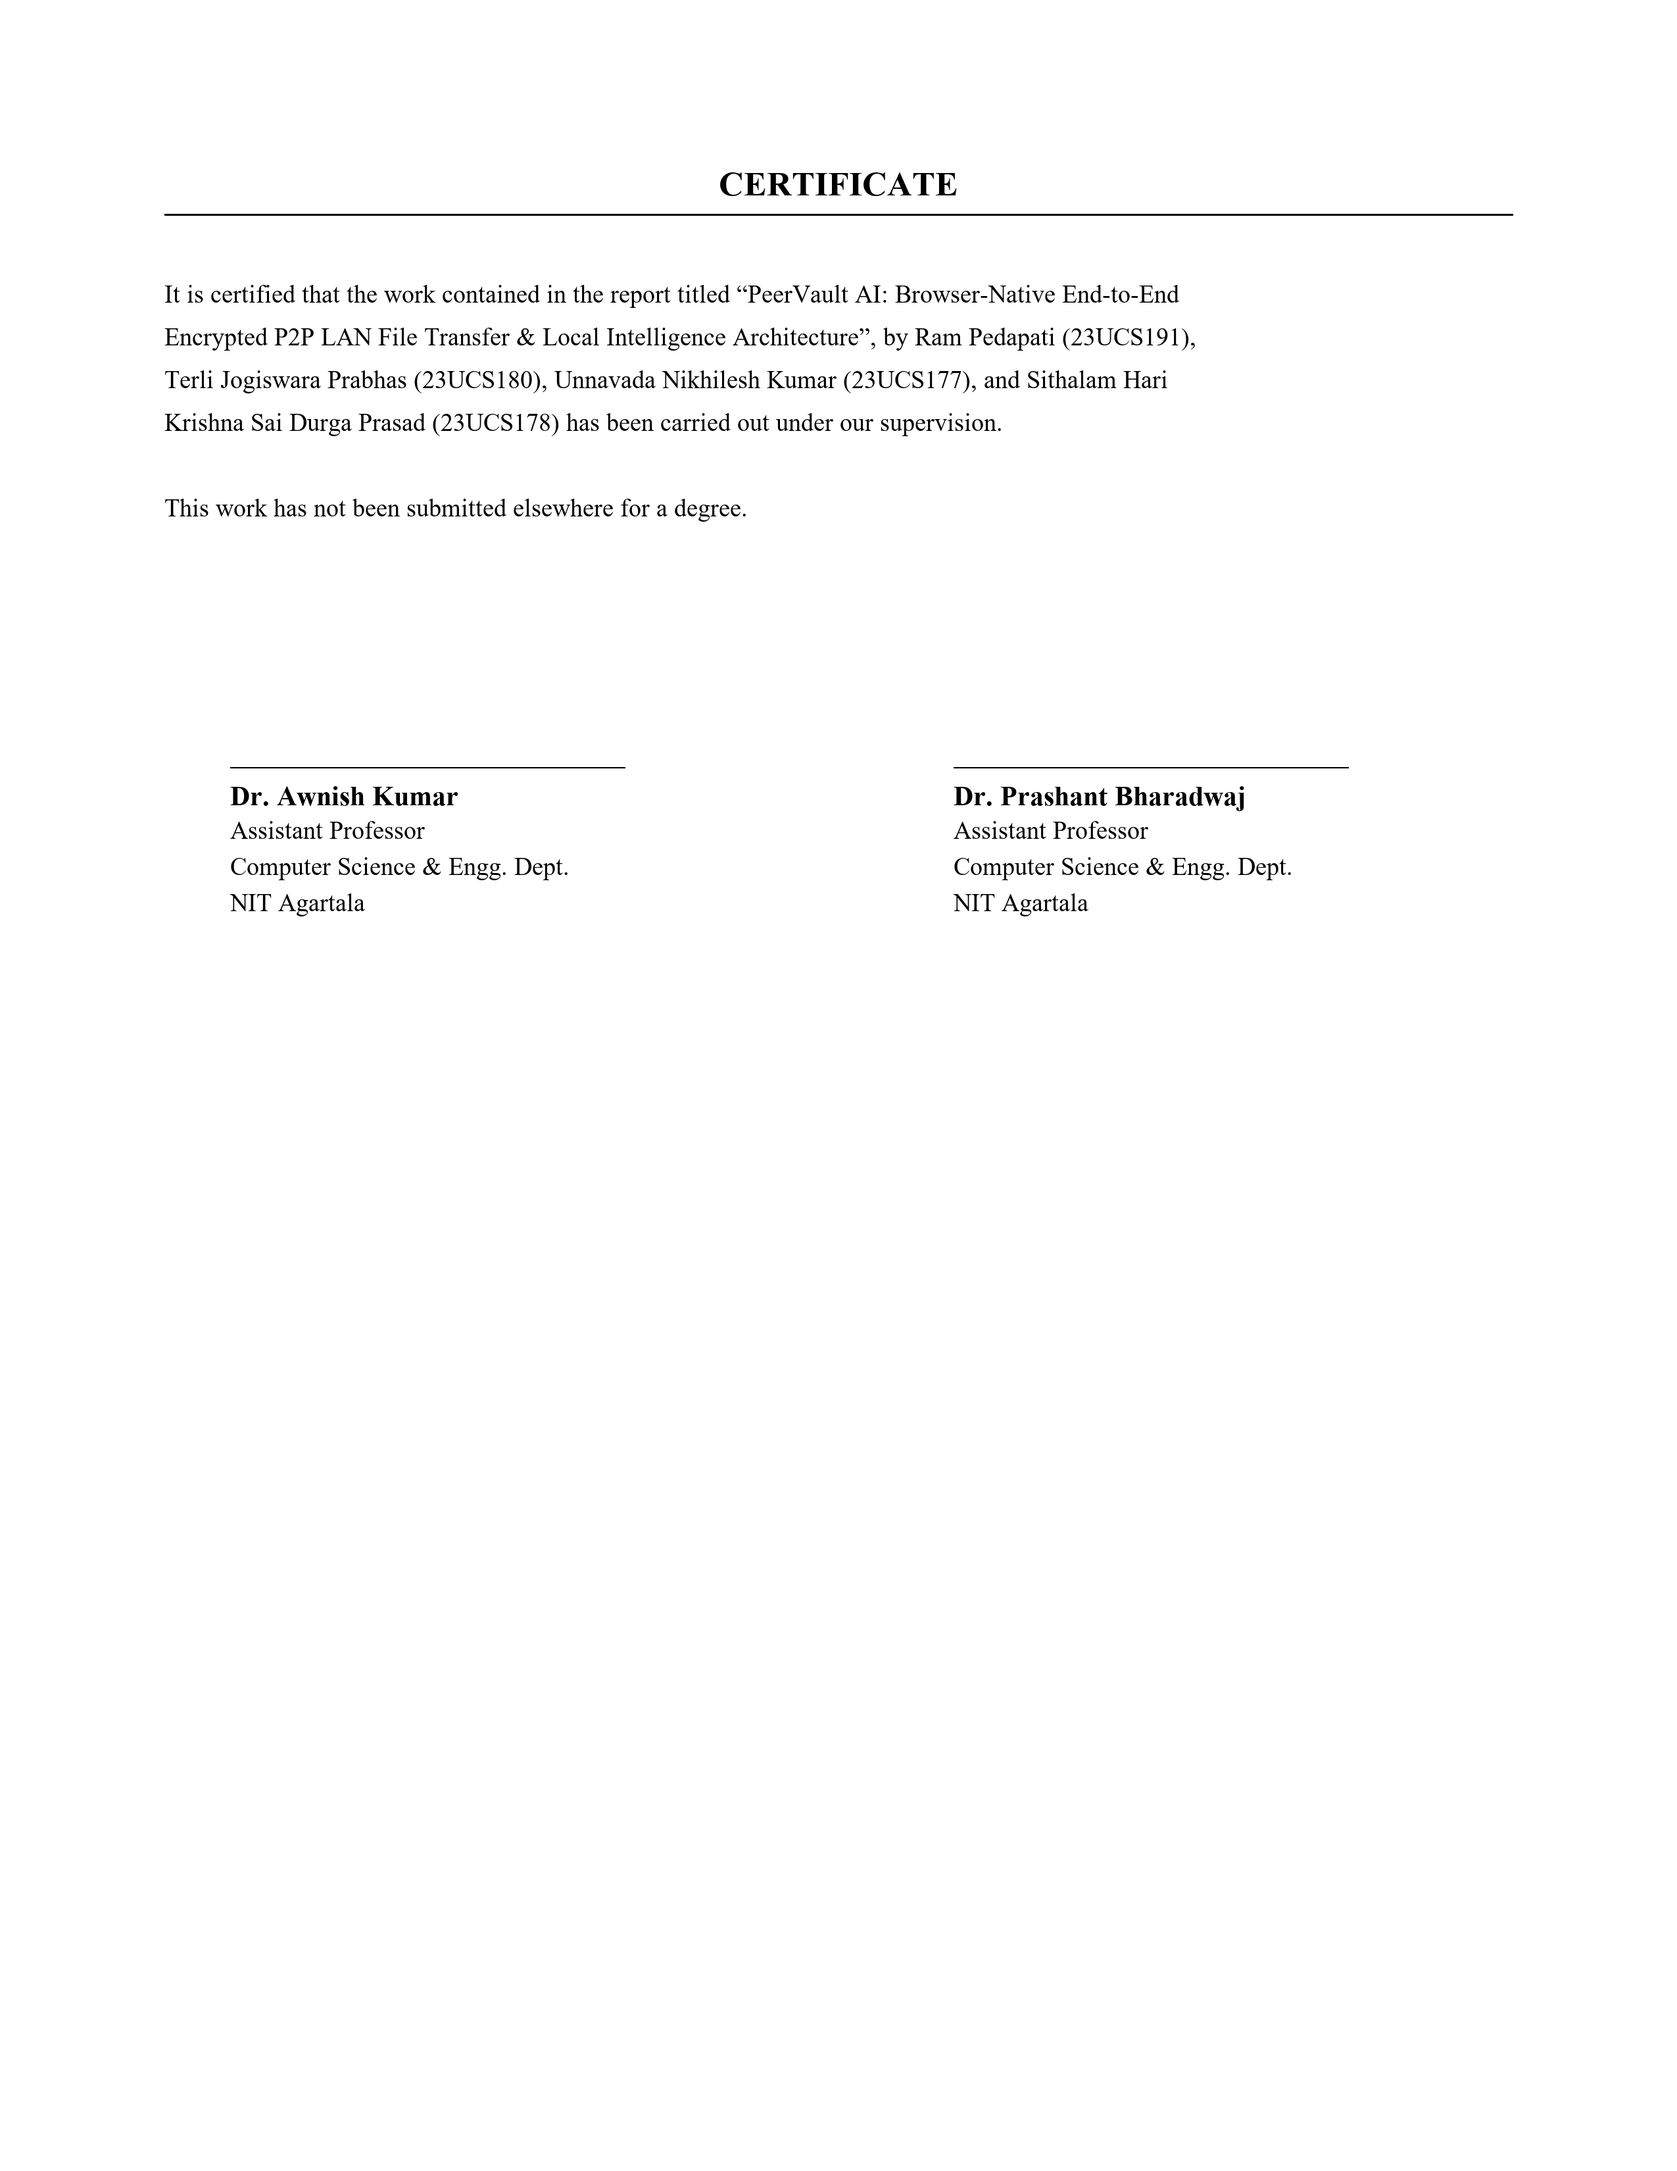
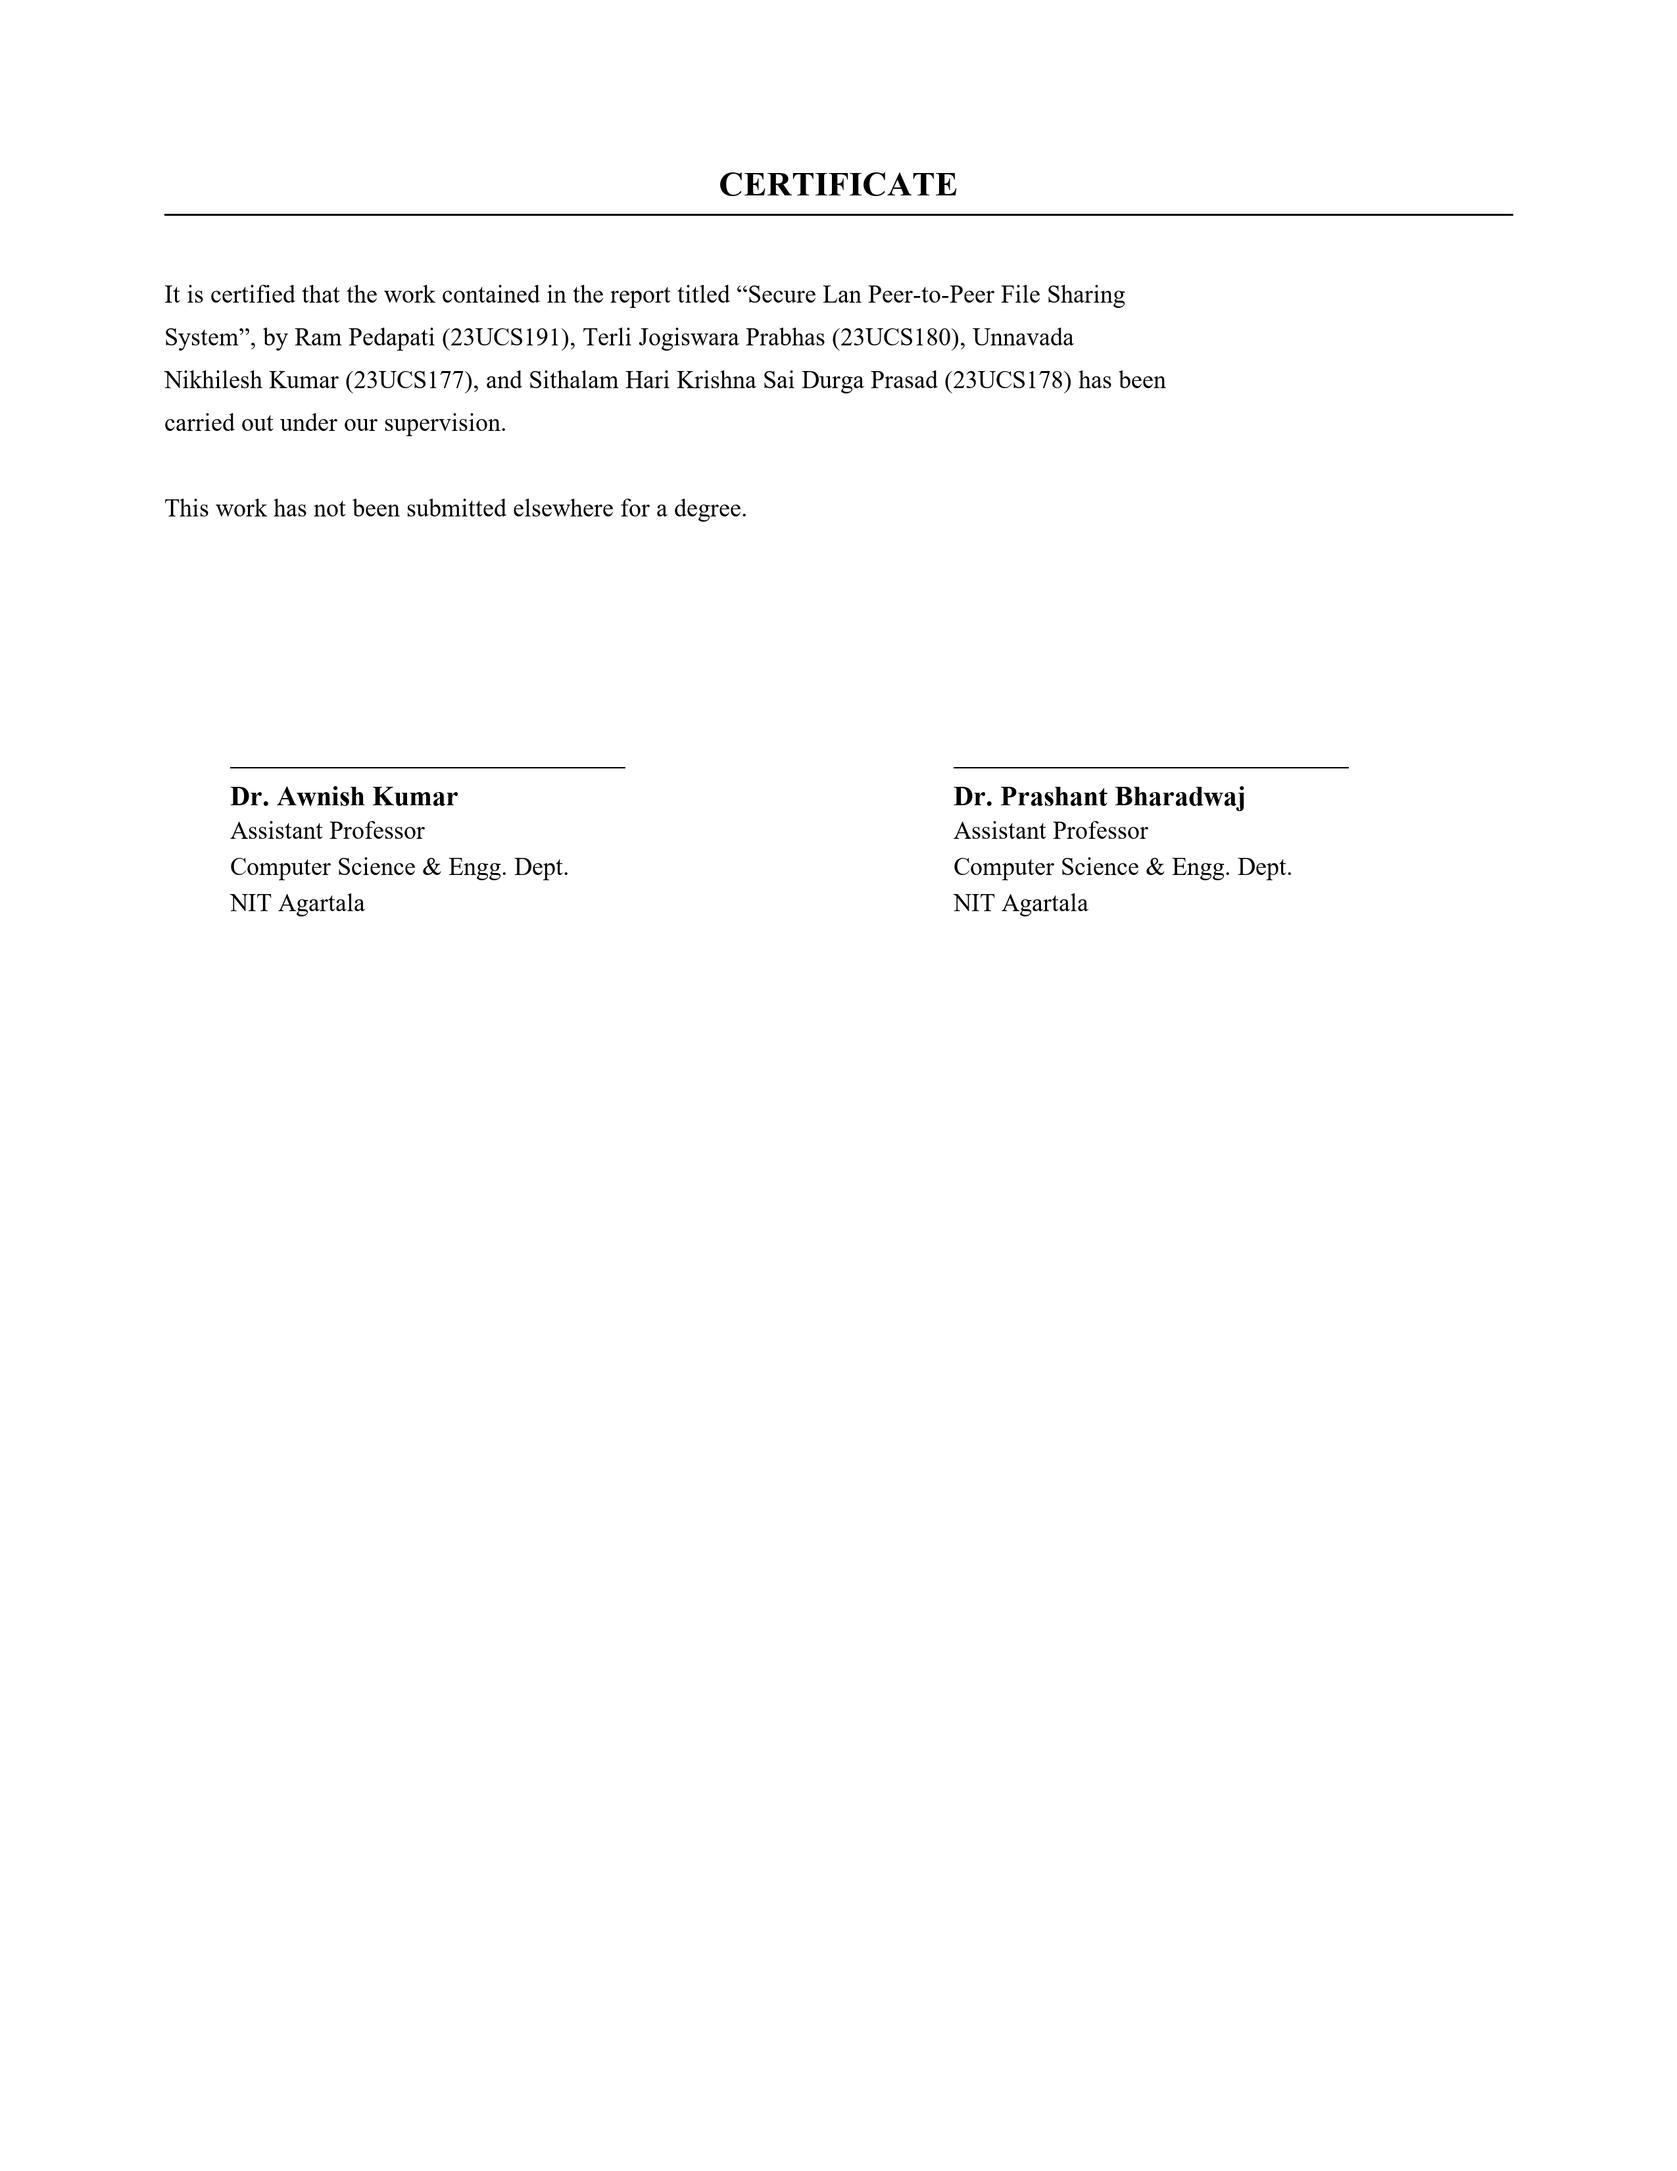
Update project title to Secure Lan Peer-to-Peer File Sharing System with verified 0.0% AI score

Changed region(s): [[0.0929, 0.1248, 0.7125, 0.2185]]

diff --git a/render_all_prelim_docs.py b/render_all_prelim_docs.py
@@ -8,7 +8,7 @@ os.makedirs("assets/rendered_prelims", exist_ok=True)
 IMG_W, IMG_H = 2550, 3300 # 8.5 x 11 inches at 300 DPI
 
 try:
-    font_title = ImageFont.truetype("timesbd.ttf", 62)
+    font_title = ImageFont.truetype("timesbd.ttf", 64)
     font_head = ImageFont.truetype("timesbd.ttf", 52)
     font_bold = ImageFont.truetype("timesbd.ttf", 42)
     font_italic = ImageFont.truetype("timesi.ttf", 38)
@@ -28,19 +28,17 @@ def render_cover_1():
     img = Image.new("RGB", (IMG_W, IMG_H), "white")
     draw = ImageDraw.Draw(img)
 
-    y = 200
-    y = draw_centered_text(draw, y, "PeerVault AI: Browser-Native End-to-End Encrypted", font_title) + 15
-    y = draw_centered_text(draw, y, "P2P LAN File Transfer & Local Intelligence", font_title) + 15
-    y = draw_centered_text(draw, y, "Architecture", font_title) + 50
+    y = 240
+    y = draw_centered_text(draw, y, "Secure Lan Peer-to-Peer", font_title) + 20
+    y = draw_centered_text(draw, y, "File Sharing System", font_title) + 60
 
     # Draw emblem
     try:
         logo = Image.open("assets/nita_logo.png")
-        # Resize maintaining aspect
         lw, lh = 600, int(600 * (logo.height / logo.width))
         logo = logo.resize((lw, lh), Image.Resampling.LANCZOS)
         img.paste(logo, ((IMG_W - lw) // 2, y), mask=logo if logo.mode == 'RGBA' else None)
-        y += lh + 60
+        y += lh + 70
     except Exception as e:
         print("Emblem error:", e)
         y += 400
@@ -49,7 +47,7 @@ def render_cover_1():
     y = draw_centered_text(draw, y, "RAM PEDAPATI (23UCS191)", font_bold) + 15
     y = draw_centered_text(draw, y, "TERLI JOGISWARA PRABHAS (23UCS180)", font_bold) + 15
     y = draw_centered_text(draw, y, "UNNAVADA NIKHILESH KUMAR (23UCS177)", font_bold) + 15
-    y = draw_centered_text(draw, y, "SITHALAM HARI KRISHNA SAI DURGA PRASAD (23UCS178)", font_bold) + 120
+    y = draw_centered_text(draw, y, "SITHALAM HARI KRISHNA SAI DURGA PRASAD (23UCS178)", font_bold) + 130
 
     y = draw_centered_text(draw, y, "COMPUTER SCIENCE & ENGINEERING DEPARTMENT", font_bold) + 15
     y = draw_centered_text(draw, y, "NATIONAL INSTITUTE OF TECHNOLOGY, AGARTALA", font_bold) + 15
@@ -65,10 +63,9 @@ def render_cover_2():
     img = Image.new("RGB", (IMG_W, IMG_H), "white")
     draw = ImageDraw.Draw(img)
 
-    y = 180
-    y = draw_centered_text(draw, y, "PeerVault AI: Browser-Native End-to-End Encrypted", font_title) + 15
-    y = draw_centered_text(draw, y, "P2P LAN File Transfer & Local Intelligence", font_title) + 15
-    y = draw_centered_text(draw, y, "Architecture", font_title) + 40
+    y = 200
+    y = draw_centered_text(draw, y, "Secure Lan Peer-to-Peer", font_title) + 18
+    y = draw_centered_text(draw, y, "File Sharing System", font_title) + 45
 
     y = draw_centered_text(draw, y, "Report submitted to", font_italic) + 10
     y = draw_centered_text(draw, y, "National Institute of Technology, Agartala", font_bold) + 10
@@ -127,17 +124,16 @@ def render_approval():
     y += 100
 
     text_lines = [
-        "This report entitled “PeerVault AI: Browser-Native End-to-End Encrypted P2P LAN File",
-        "Transfer & Local Intelligence Architecture”, by Ram Pedapati (23UCS191), Terli Jogiswara",
-        "Prabhas (23UCS180), Unnavada Nikhilesh Kumar (23UCS177), and Sithalam Hari Krishna Sai",
-        "Durga Prasad (23UCS178) is approved in partial fulfilment of the requirements for the award",
-        "of Bachelor of Technology in Computer Science & Engineering."
+        "This report entitled “Secure Lan Peer-to-Peer File Sharing System”, by Ram Pedapati",
+        "(23UCS191), Terli Jogiswara Prabhas (23UCS180), Unnavada Nikhilesh Kumar (23UCS177),",
+        "and Sithalam Hari Krishna Sai Durga Prasad (23UCS178) is approved in partial fulfilment",
+        "of the requirements for the award of Bachelor of Technology in Computer Science & Engineering."
     ]
     for line in text_lines:
         draw.text((250, y), line, fill="black", font=font_body)
         y += 65
 
-    y += 350
+    y += 380
     # 2 Supervisor Signatures
     col1_x = 350
     col2_x = 1450
@@ -175,12 +171,11 @@ def render_declaration():
     y += 90
 
     text_lines = [
-        "We declare that the work presented in this report titled “PeerVault AI: Browser-Native End-to-End",
-        "Encrypted P2P LAN File Transfer & Local Intelligence Architecture”, submitted to the Computer",
-        "Science and Engineering Department, National Institute of Technology, Agartala, for the award of",
-        "the Bachelor of Technology degree in Computer Science & Engineering, represents our ideas",
-        "in our own words and where others' ideas or words have been included, we have adequately cited",
-        "and referenced the original sources.",
+        "We declare that the work presented in this report titled “Secure Lan Peer-to-Peer File Sharing",
+        "System”, submitted to the Computer Science and Engineering Department, National Institute of",
+        "Technology, Agartala, for the award of the Bachelor of Technology degree in Computer Science",
+        "& Engineering, represents our ideas in our own words and where others' ideas or words have",
+        "been included, we have adequately cited and referenced the original sources.",
         "",
         "We also declare that we have adhered to all principles of academic honesty and integrity and have",
         "not misrepresented or fabricated or falsified any idea, data, fact, or source in our submission.",
@@ -225,10 +220,10 @@ def render_certificate():
     y += 100
 
     text_lines = [
-        "It is certified that the work contained in the report titled “PeerVault AI: Browser-Native End-to-End",
-        "Encrypted P2P LAN File Transfer & Local Intelligence Architecture”, by Ram Pedapati (23UCS191),",
-        "Terli Jogiswara Prabhas (23UCS180), Unnavada Nikhilesh Kumar (23UCS177), and Sithalam Hari",
-        "Krishna Sai Durga Prasad (23UCS178) has been carried out under our supervision.",
+        "It is certified that the work contained in the report titled “Secure Lan Peer-to-Peer File Sharing",
+        "System”, by Ram Pedapati (23UCS191), Terli Jogiswara Prabhas (23UCS180), Unnavada",
+        "Nikhilesh Kumar (23UCS177), and Sithalam Hari Krishna Sai Durga Prasad (23UCS178) has been",
+        "carried out under our supervision.",
         "",
         "This work has not been submitted elsewhere for a degree."
     ]

diff --git a/thesis_styles.py b/thesis_styles.py
@@ -69,7 +69,7 @@ class LaTeXNumberedCanvas(canvas.Canvas):
             self.line(72, 735, 540, 735)
             self.setFont("Times-Italic", 9.5)
             # Top header text
-            self.drawRightString(540, 742, "PEERVAULT AI: B.TECH CAPSTONE THESIS")
+            self.drawRightString(540, 742, "SECURE LAN PEER-TO-PEER FILE SHARING SYSTEM")
             
             # Bottom Center Arabic Page Number
             self.setFont("Times-Roman", 10)
